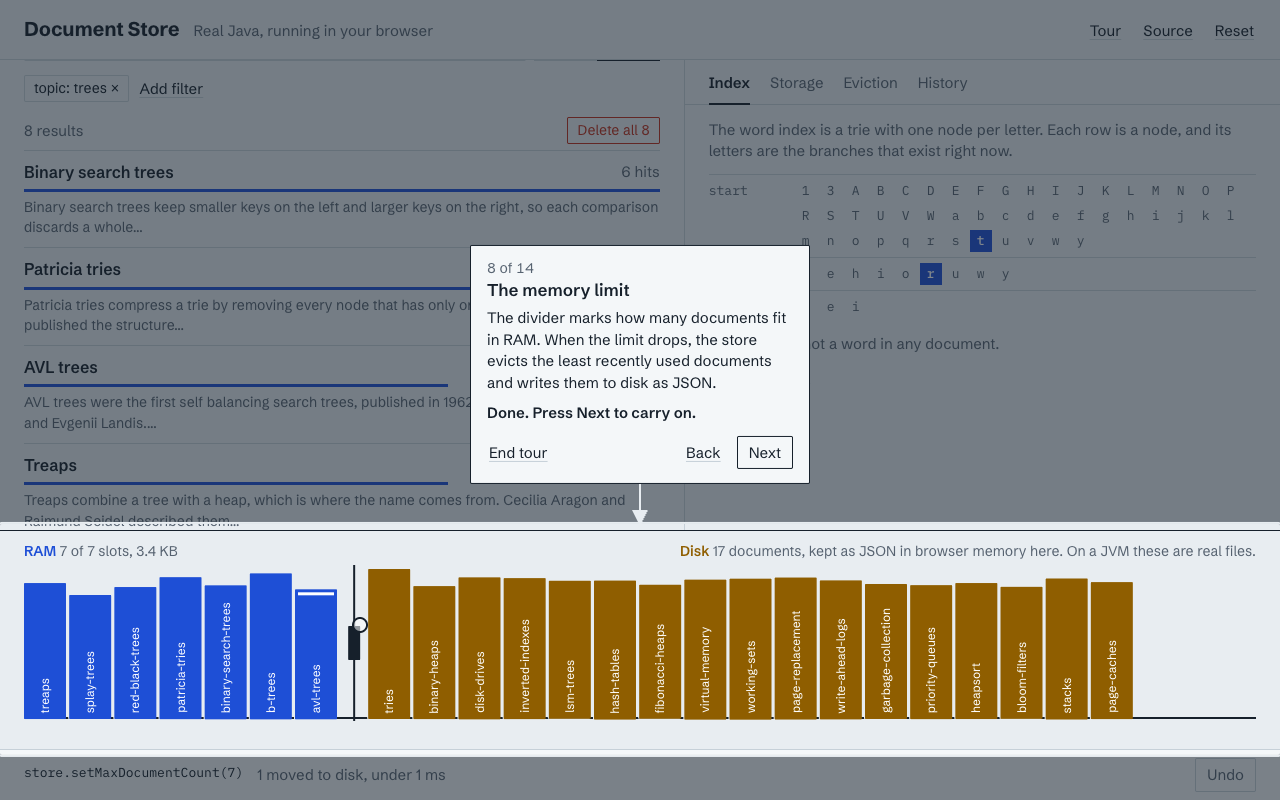
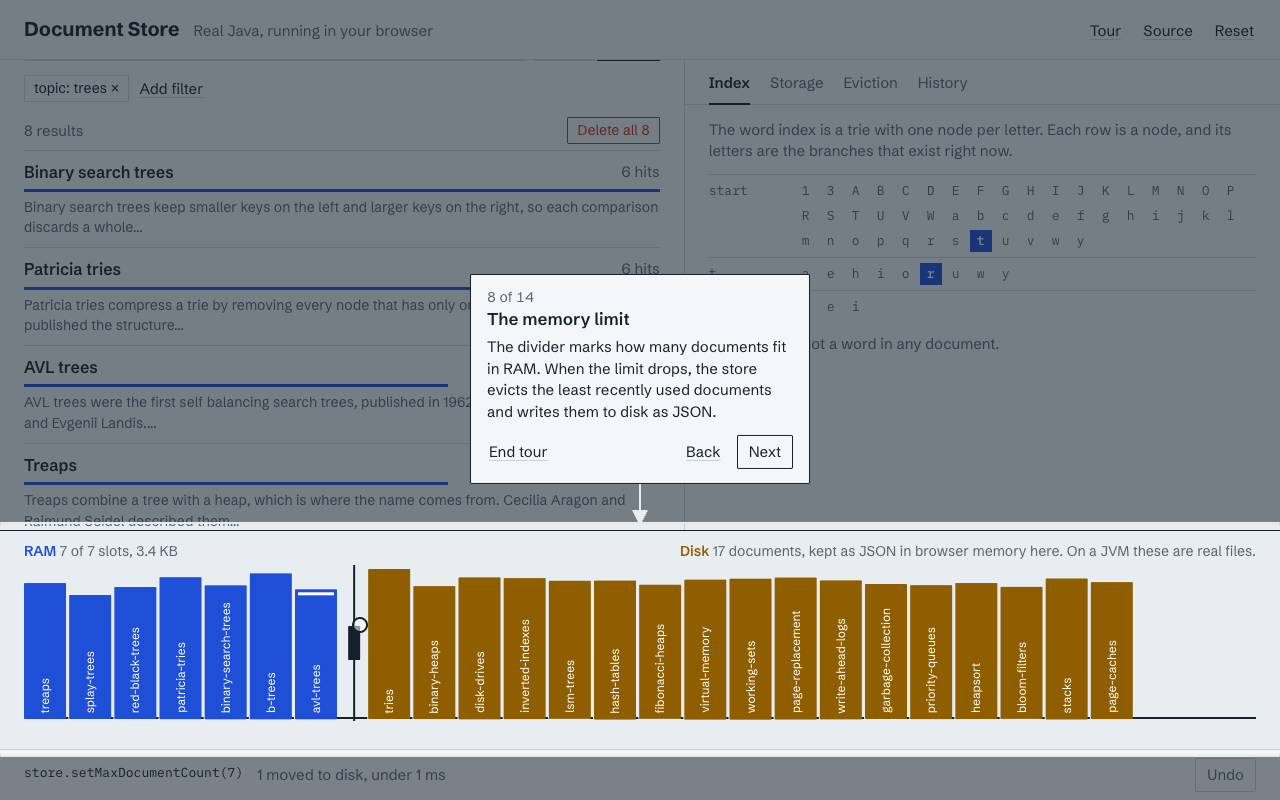
drop line shown after try it step

Changed region(s): [[0.3438, 0.2812, 0.6562, 0.5312], [0.375, 0.5625, 0.4375, 0.5938], [0.5312, 0.5625, 0.5625, 0.5938]]

diff --git a/demo/web/src/demo/tour.ts b/demo/web/src/demo/tour.ts
@@ -36,7 +36,7 @@ export const STOPS: TourStop[] = [
   },
   {
     title: 'The memory wall',
-    body: "Every bar is one document, and its height shows its size. Blue bars are in RAM and ochre bars are on disk. RAM only holds so many documents, so the rest wait on disk as JSON. The white mark shows which document leaves next.",
+    body: "Every bar is one document, and its height shows its size. Blue bars are in RAM and brown bars are on disk. RAM only holds so many documents, so the rest wait on disk as JSON. The white mark shows which document leaves next.",
     target: 'wall',
   },
   {
@@ -60,7 +60,7 @@ export const STOPS: TourStop[] = [
   },
   {
     title: 'Ranked results',
-    body: "Results rank by how many matching words each document holds. The bar under a result is blue if that document is in RAM and ochre if it's on disk. Searching counts as using a document, so it can pull documents back from disk and push others out.",
+    body: "Results rank by how many matching words each document holds. The bar under a result is blue if that document is in RAM and brown if it's on disk. Searching counts as using a document, so it can pull documents back from disk and push others out.",
     target: 'results',
   },
   {

diff --git a/demo/web/src/components/TourOverlay.tsx b/demo/web/src/components/TourOverlay.tsx
@@ -198,9 +198,7 @@ function Spotlight({ demo, tour }: { demo: Demo; tour: TourPosition }) {
         <p className="spotlight__count">{tour.stop + 1} of {STOPS.length}</p>
         <h2>{stop.title}</h2>
         <p>{stop.body}</p>
-        {stop.task && (
-          <p className="spotlight__task">{done ? 'Done. Press Next to carry on.' : stop.task.text}</p>
-        )}
+        {stop.task && !done && <p className="spotlight__task">{stop.task.text}</p>}
         <div className="spotlight__actions">
           {!last && <button type="button" className="quiet" onClick={() => demo.setTour(null)}>End tour</button>}
           {tour.stop > 0 && <button type="button" className="quiet" onClick={() => go(tour.stop - 1)}>Back</button>}
